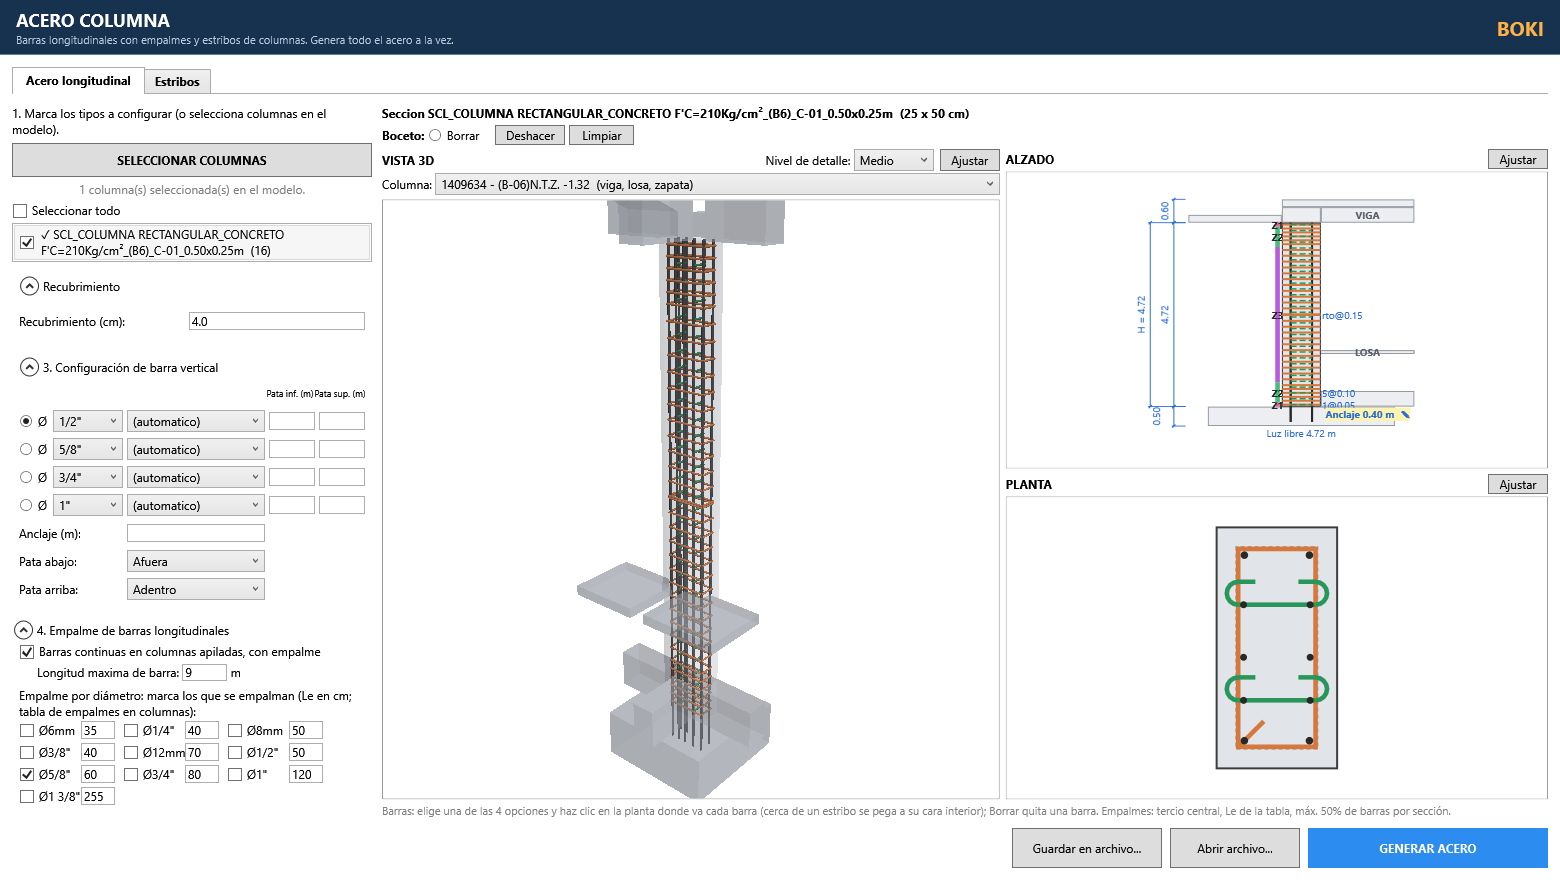
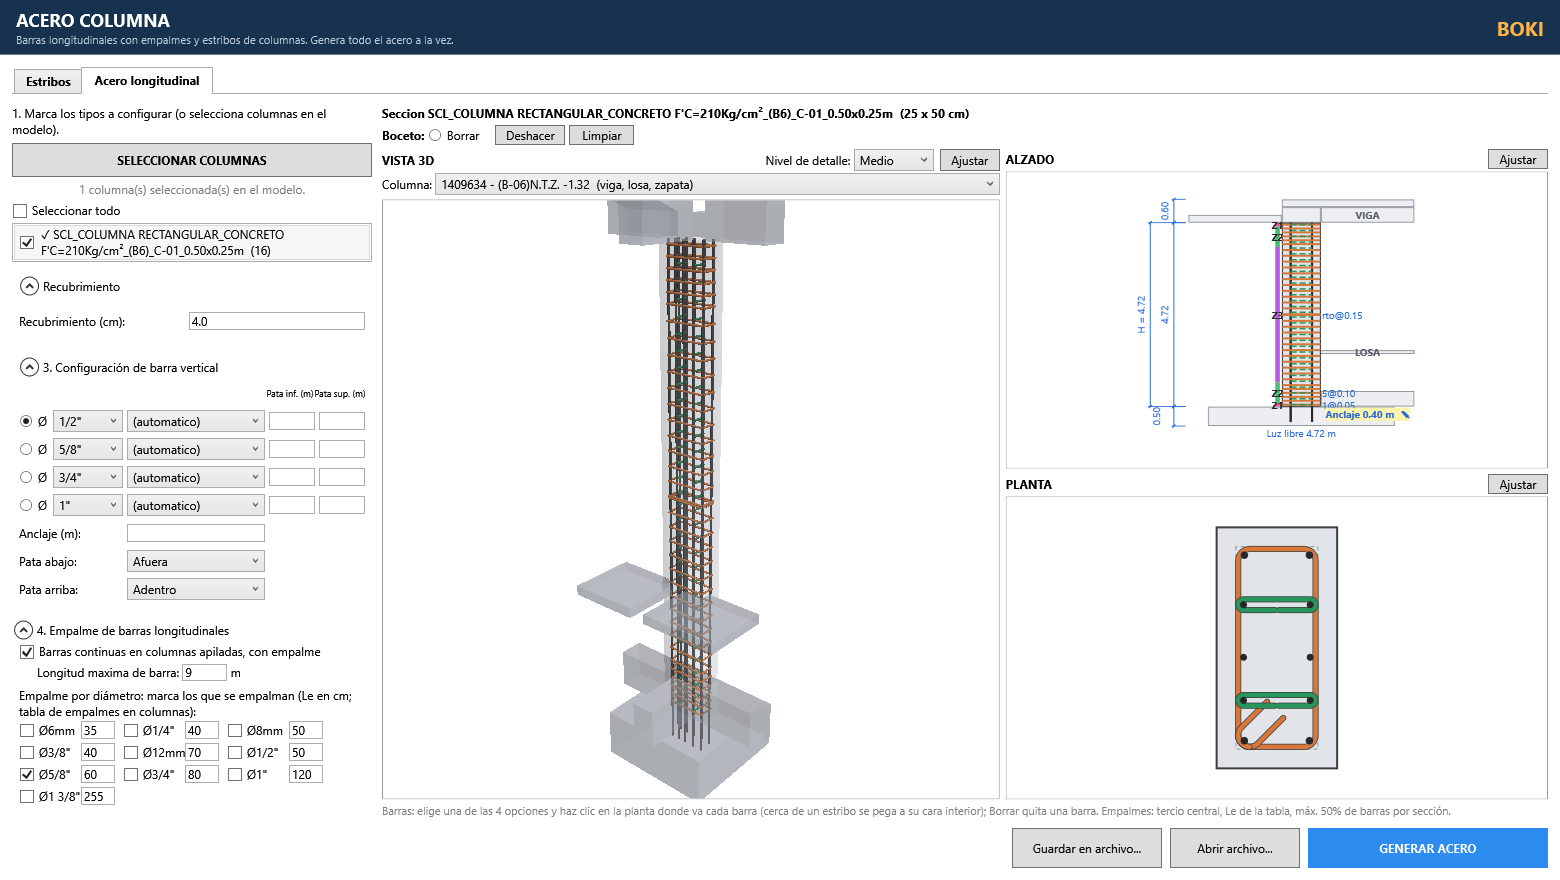
Acero Columna: Estribos tab first; plan drawn as bent in Revit - stirrups round over the bars with a 2.5 db bend and two 135-degree hooks, crossties wrapping their bars (135 / C / S) with their legs, steel with a dark edge

Changed region(s): [[0.0, 0.0614, 0.1538, 0.1227], [0.7692, 0.767, 0.8615, 0.8591], [0.7692, 0.6443, 0.8615, 0.7057]]

diff --git a/BOKI Estructura.tab/Acero.panel/Acero.pushbutton/AceroForm.xaml b/BOKI Estructura.tab/Acero.panel/Acero.pushbutton/AceroForm.xaml
@@ -37,8 +37,8 @@
              tools show (the generation makes everything at once) -->
         <TabControl DockPanel.Dock="Top" x:Name="tab_steel" Margin="0,0,0,8" SelectionChanged="tab_changed"
                     Background="Transparent" BorderThickness="0,1,0,0">
-            <TabItem Header="Acero longitudinal" Padding="12,4" FontWeight="Bold"/>
             <TabItem Header="Estribos" Padding="12,4" FontWeight="Bold"/>
+            <TabItem Header="Acero longitudinal" Padding="12,4" FontWeight="Bold"/>
         </TabControl>
         <!-- Bottom: run (the columns picked in the model, or else every
              column of the checked types) -->

diff --git a/BOKI Estructura.tab/Acero.panel/Acero.pushbutton/script.py b/BOKI Estructura.tab/Acero.panel/Acero.pushbutton/script.py
@@ -50,7 +50,8 @@ from Autodesk.Revit.DB.Structure import RebarShape, RebarStyle
 from System.Windows.Input import Key, Keyboard, MouseButton
 from System.Windows.Controls import (Button, Canvas, CheckBox, ListBoxItem, Orientation, StackPanel,
                                      TextBlock, TextBox)
-from System.Windows.Media import Color, DoubleCollection, PointCollection, SolidColorBrush
+from System.Windows.Media import (Color, DoubleCollection, PenLineCap, PenLineJoin, PointCollection,
+                                  SolidColorBrush)
 from System.Windows.Shapes import Ellipse, Line, Polygon, Polyline
 
 output = script.get_output()
@@ -405,15 +406,15 @@ class AceroWindow(forms.WPFWindow):
         if active is not None:
             self._select_type(active)
         self._row_heights = [row.Height for row in self.grid_stirrups.RowDefinitions]
-        self._show_tab(self.tab_steel.SelectedIndex == 0)
+        self._show_tab(self.tab_steel.SelectedIndex == 1)
 
     def tab_changed(self, sender, args):
         if args.OriginalSource is self.tab_steel and hasattr(self, "_row_heights"):
-            self._show_tab(self.tab_steel.SelectedIndex == 0)
+            self._show_tab(self.tab_steel.SelectedIndex == 1)
 
     def _show_tab(self, longitudinal):
-        """Two tabs over the same window: "Acero longitudinal" (bars and
-        laps) and "Estribos" (stirrups, ties, izaje, joint). Each shows only
+        """Two tabs over the same window: "Estribos" (first) and "Acero
+        longitudinal" (bars and laps) (stirrups, ties, izaje, joint). Each shows only
         its settings and sketch tools; views, neighbours, the joint and the
         generation (everything at once) are the same."""
         stirrup_only = [self.rb_stirrup, self.rb_rect, self.rb_tie, self.rb_edit, self.txt_steel, self.cbo_steel,
@@ -1212,10 +1213,15 @@ class AceroWindow(forms.WPFWindow):
                 line = rs.stirrup_centerline(poly, bars, key, wrap, is_open)
             except rs.SpecError:
                 line = poly
-            thickness = max(2, rs.BAR_DIAMETERS_MM[key] / 1000.0 * scale)
-            self._polyline(frame, line, color(kind), thickness, closed=not is_open)
-            if not is_open:
-                self._hook(frame, line, key, color(kind), thickness)
+            ds = rs.BAR_DIAMETERS_MM[key] / 1000.0
+            thickness = max(2, ds * scale)
+            # as bent in Revit: round over each bar, 135-degree hooks
+            wrap_r = (wrap if wrap is not None else rs.wrap_radius(poly, bars)) + ds / 2.0
+            try:
+                for part in rs.bent_stirrup(poly, wrap_r, max(6 * ds, 0.075), is_open, bend=2.5 * ds):
+                    self._steel(frame, part, color(kind), thickness)
+            except Exception:
+                self._polyline(frame, line, color(kind), thickness, closed=not is_open)
             if i == self.selected:
                 try:
                     outline = rs.stirrup_outline(poly, bars, key, wrap, is_open)
@@ -1230,11 +1236,16 @@ class AceroWindow(forms.WPFWindow):
                 a2, b2 = rs.tie_centerline(a, b, bars, key)
             except rs.SpecError:
                 a2, b2 = a, b
-            thickness = max(2, rs.BAR_DIAMETERS_MM[key] / 1000.0 * scale)
-            self._polyline(frame, [a2, b2], color(kind), thickness)
-            # C / S crossties: their 180-degree hooks
-            for mark in rs.tie_hook_marks(a2, b2, style, 2.5 * rs.BAR_DIAMETERS_MM[key] / 1000.0):
-                self._polyline(frame, mark, color(kind), thickness)
+            ds = rs.BAR_DIAMETERS_MM[key] / 1000.0
+            thickness = max(2, ds * scale)
+            # as bent in Revit: round each end bar (135 deg, C / S 180 deg) and its leg
+            radii = []
+            for end in (a, b):
+                bar = rs._bar_at(end, bars)
+                radii.append((rs.BAR_DIAMETERS_MM[bar] / 2000.0 if bar else 0.0) + ds / 2.0)
+            angle = 180 if style in rs.TIE_STYLES else 135
+            leg = (self.design.get("tie_leg") or rs.tie_leg_cm(key, angle)) / 100.0
+            self._steel(frame, rs.bent_tie(a, b, radii[0], radii[1], style, leg), color(kind), thickness)
         for x, y, key in bars:
             self._dot(frame, x, y, max(3.5, rs.BAR_DIAMETERS_MM[key] / 2000.0 * scale), C_BAR)
 
@@ -1276,25 +1287,13 @@ class AceroWindow(forms.WPFWindow):
             self._views_sig = signature
             self._refresh_views()
 
-    def _hook(self, frame, line, key, color, thickness):
-        """The 135-degree hook of a closed stirrup at its first corner (where
-        Revit puts it): a short leg into the core along the bisector."""
-        pts = rs.counterclockwise(line)
-        if len(pts) < 3:
-            return
-        c, nxt, prv = pts[0], pts[1], pts[-1]
-        u = [nxt[0] - c[0], nxt[1] - c[1]]
-        v = [prv[0] - c[0], prv[1] - c[1]]
-        lu, lv = (u[0] ** 2 + u[1] ** 2) ** 0.5, (v[0] ** 2 + v[1] ** 2) ** 0.5
-        if lu < 1e-9 or lv < 1e-9:
-            return
-        bx, by = u[0] / lu + v[0] / lv, u[1] / lu + v[1] / lv
-        lb = (bx ** 2 + by ** 2) ** 0.5
-        if lb < 1e-9:
-            return
-        length = max(6 * rs.BAR_DIAMETERS_MM[key] / 1000.0, 0.075)
-        end = (c[0] + bx / lb * length, c[1] + by / lb * length)
-        self._polyline(frame, [c, end], color, thickness)
+    def _steel(self, frame, points, color, thickness):
+        """A bar in plan: its color over a thin dark edge, round bends and
+        ends, like Revit's fine detail."""
+        for brush, width in ((C_OUTLINE, thickness + 1.5), (color, thickness)):
+            shape = self._polyline(frame, points, brush, width)
+            shape.StrokeLineJoin = PenLineJoin.Round
+            shape.StrokeStartLineCap = shape.StrokeEndLineCap = PenLineCap.Round
 
     @staticmethod
     def _rect(a, b):
@@ -2162,8 +2161,8 @@ class AceroWindow(forms.WPFWindow):
             dist = rs.distance_to_polyline if is_open else rs.distance_to_polygon
             candidates.append((dist(m, poly), "stirrups", i))
         # each window erases only its own steel (bars / stirrups and ties)
-        candidates = [c for c in candidates if c[0] <= tol and (c[1] == "bars") == (self.tab_steel.SelectedIndex == 0)]
-        if not candidates and self.tab_steel.SelectedIndex != 0:
+        candidates = [c for c in candidates if c[0] <= tol and (c[1] == "bars") == (self.tab_steel.SelectedIndex == 1)]
+        if not candidates and self.tab_steel.SelectedIndex != 1:
             # Not on any bar, tie or edge: the stirrup the click is inside.
             index = self._stirrup_at(frame, p)
             if index is not None:

diff --git a/revit_mcp/rebar_spec.py b/revit_mcp/rebar_spec.py
@@ -121,6 +121,99 @@ def tie_leg_cm(diameter_key, angle):
     return math.ceil(leg * 2.0 - 1e-9) / 2.0
 
 
+def _arc(center, radius, a0, a1, step=math.pi / 16):
+    """Points on a circle from angle a0 to a1 (either way), both ends in."""
+    n = max(1, int(math.ceil(abs(a1 - a0) / step)))
+    return [(center[0] + radius * math.cos(a0 + (a1 - a0) * k / float(n)),
+             center[1] + radius * math.sin(a0 + (a1 - a0) * k / float(n))) for k in range(n + 1)]
+
+
+def bent_stirrup(vertices, radius, hook_leg, is_open=False, bend=None):
+    """A stirrup in plan as it is bent: its centerline `radius` outside the
+    drawn vertices (the wrapped bar centers), round over each bar, and - a
+    closed one - the two 135-degree hooks at the first corner, each going
+    on round the bar 45 degrees past the corner and then straight into the
+    core `hook_leg`. `bend`: the bend radius of the centerline when larger
+    than `radius` (Revit bends a stirrup round a pin: about 2.5 db), the
+    corner then rounding inside the bar. Returns [path, hook, hook]
+    ([path] when open)."""
+    bend = max(bend or 0.0, radius)
+    pts = list(vertices) if is_open else counterclockwise(vertices)
+    n = len(pts)
+    if n < 2:
+        return []
+
+    def normal(a, b):  # outward of a counterclockwise polygon (right side)
+        dx, dy = b[0] - a[0], b[1] - a[1]
+        length = math.hypot(dx, dy) or 1.0
+        return dy / length, -dx / length
+
+    if is_open:
+        if polygon_signed_area(pts) < 0:  # the U bulges to the right of its run
+            pts = pts[::-1]
+        path = [(pts[0][0] + normal(pts[0], pts[1])[0] * radius, pts[0][1] + normal(pts[0], pts[1])[1] * radius)]
+        corners = range(1, n - 1)
+    else:
+        path = []
+        corners = range(n)
+    angles, centers = {}, {}
+    for k in corners:
+        p, prev, nxt = pts[k], pts[k - 1], pts[(k + 1) % n]
+        n_in, n_out = normal(prev, p), normal(p, nxt)
+        a_in, a_out = math.atan2(n_in[1], n_in[0]), math.atan2(n_out[1], n_out[0])
+        turn = (a_out - a_in + math.pi) % (2 * math.pi) - math.pi
+        if turn >= 0:  # convex: round over the bar
+            # the centre `bend` inside both offset sides
+            k_ = (bend - radius) / (1.0 + math.cos(turn))
+            c = (p[0] - k_ * (math.cos(a_in) + math.cos(a_in + turn)),
+                 p[1] - k_ * (math.sin(a_in) + math.sin(a_in + turn)))
+            path += _arc(c, bend, a_in, a_in + turn)
+            centers[k] = c
+        else:  # concave: the offset sides meet
+            half = turn / 2.0
+            r = radius / max(math.cos(half), 0.2)
+            path.append((p[0] + r * math.cos(a_in + half), p[1] + r * math.sin(a_in + half)))
+        angles[k] = (a_in, a_in + turn)
+    if is_open:
+        path.append((pts[-1][0] + normal(pts[-2], pts[-1])[0] * radius,
+                     pts[-1][1] + normal(pts[-2], pts[-1])[1] * radius))
+        return [path]
+    path.append(path[0])
+    a_in, a_out = angles[0]
+    p = centers.get(0, pts[0])
+    hooks = []
+    for start, end, sign in ((a_in, a_out + math.pi / 4, 1.0), (a_out, a_in - math.pi / 4, -1.0)):
+        arc = _arc(p, bend, start, end)
+        tx, ty = -math.sin(end) * sign, math.cos(end) * sign
+        arc.append((arc[-1][0] + tx * hook_leg, arc[-1][1] + ty * hook_leg))
+        hooks.append(arc)
+    return [path] + hooks
+
+
+def bent_tie(a, b, radius_a, radius_b, style, hook_leg):
+    """A crosstie in plan as it is bent, between bar centers a and b: a
+    straight run beside the bars and, at each end, round its bar (135
+    degrees; 180 for TIE_C / TIE_S, the S turning to opposite sides) and a
+    straight leg `hook_leg`. One polyline."""
+    dx, dy = b[0] - a[0], b[1] - a[1]
+    length = math.hypot(dx, dy) or 1.0
+    ux, uy = dx / length, dy / length
+    nx, ny = -uy, ux
+    sweep = math.pi if style in TIE_STYLES else 0.75 * math.pi
+    side_b = -1.0 if style == TIE_S else 1.0
+    ends = []
+    for c, r, side, toward in ((a, radius_a, 1.0, -1.0), (b, radius_b, side_b, 1.0)):
+        start = math.atan2(ny * side, nx * side)
+        # from the tie's side round the far side of the bar (away from the run)
+        sign = 1.0 if (side * toward) < 0 else -1.0
+        end = start + sign * sweep
+        arc = _arc(c, r, start, end)
+        tx, ty = -math.sin(end) * sign, math.cos(end) * sign
+        arc.append((arc[-1][0] + tx * hook_leg, arc[-1][1] + ty * hook_leg))
+        ends.append(arc)
+    return ends[0][::-1] + ends[1]
+
+
 def tie_hook_marks(a, b, style, radius):
     """Plan preview of a crosstie's 180-degree hooks: at each end (a, b) a
     half circle of `radius` turning back along the tie - both on one side

diff --git a/tests/unit/test_rebar_spec.py b/tests/unit/test_rebar_spec.py
@@ -899,3 +899,25 @@ class TestColumnSplice:
         groups, lap, warnings = column_splice_groups(0.0, 14.7, self.stories, 0.60)
         assert lap == 0.60 and not warnings
         assert groups[0][0][1] - groups[1][0][1] > 2.0  # a story apart
+
+
+class TestBentPlan:
+    def test_stirrup_round_and_hooks_parallel(self):
+        import math
+        from revit_mcp.rebar_spec import bent_stirrup
+        parts = bent_stirrup([(0, 0), (0.2, 0), (0.2, 0.4), (0, 0.4)], 0.013, 0.075)
+        path, h1, h2 = parts
+        assert path[0] == path[-1]
+        for x, y in path:  # never inside the bars' rectangle grown by the radius
+            assert -0.0131 <= x <= 0.2131 and -0.0131 <= y <= 0.4131
+        d1 = (h1[-1][0] - h1[-2][0], h1[-1][1] - h1[-2][1])
+        d2 = (h2[-1][0] - h2[-2][0], h2[-1][1] - h2[-2][1])
+        assert abs(d1[0] * d2[1] - d1[1] * d2[0]) < 1e-9 and d1[0] * d2[0] + d1[1] * d2[1] > 0
+        assert abs(math.hypot(*d1) - 0.075) < 1e-9
+
+    def test_tie_ends_wrap_bars(self):
+        import math
+        from revit_mcp.rebar_spec import bent_tie, TIE_C
+        pts = bent_tie((0, 0), (0.2, 0), 0.013, 0.013, TIE_C, 0.05)
+        assert min(x for x, _ in pts) < -0.012 and max(x for x, _ in pts) > 0.212
+        assert all(math.hypot(x, y) > 0.0129 or True for x, y in pts)
